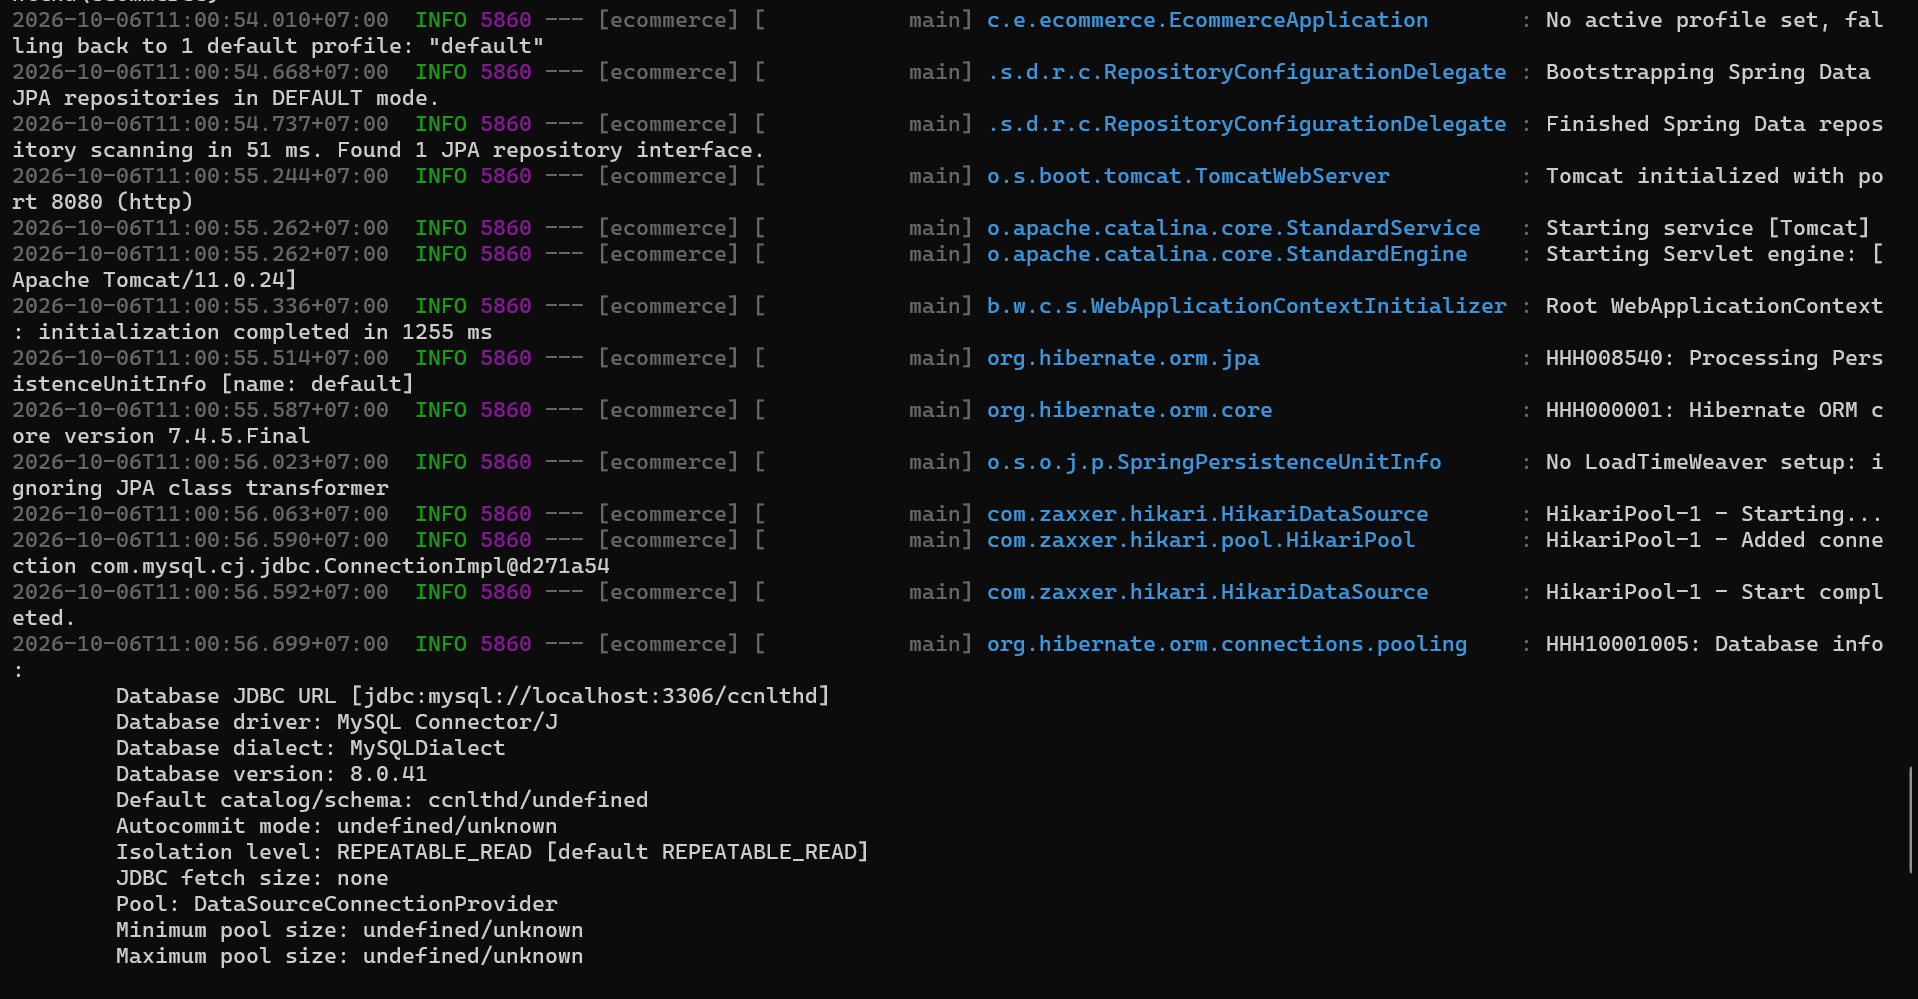
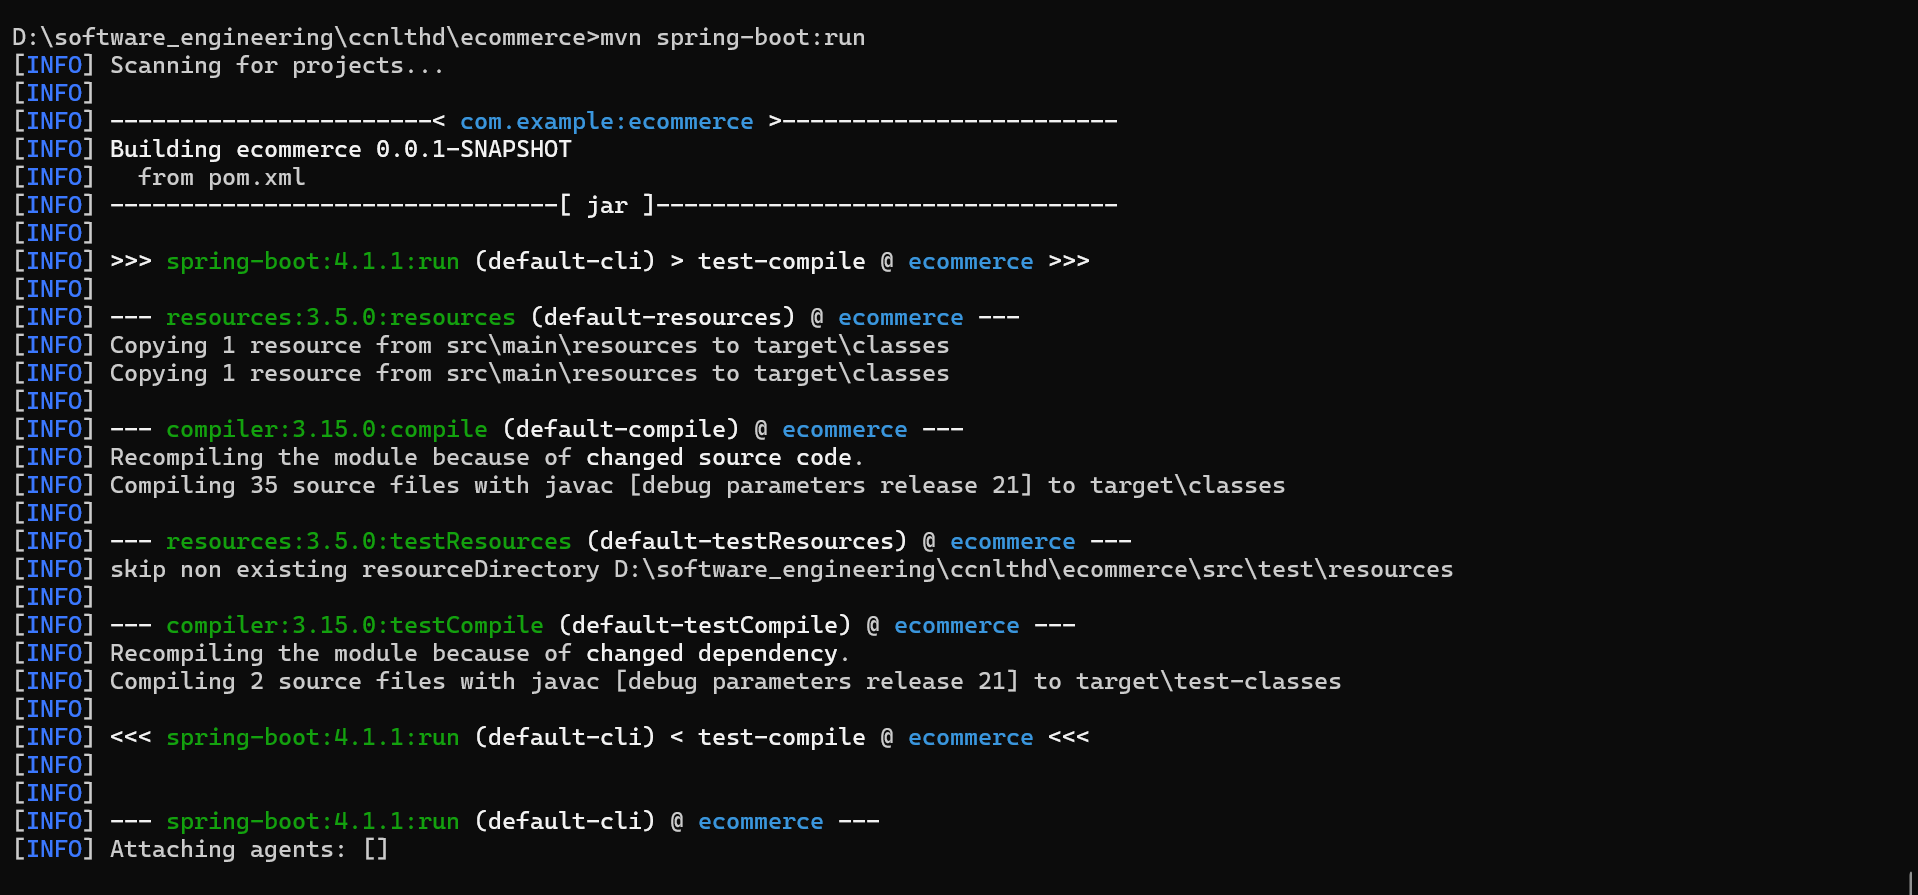
fix: readme

diff --git a/README.md b/README.md
@@ -232,7 +232,12 @@ oKMuxiSDoyo4b7SteigYPWdmpGMmuxb0VvLND3Q3X2A
 
 ![Màn hình Termianl](./imgs/auth/cmd1.png)
 ![](./imgs/auth/cmd2.png)
-![](./imgs/auth/cmd3.png)
+![](./imgs/auth/cmd4.png)
+![](./imgs/auth/cmd5.png)
+![](./imgs/auth/cmd6.png)
+![](./imgs/auth/cmd7.png)
+![](./imgs/auth/cmd8.png)
+![](./imgs/auth/cmd9.png)
 
 
 # 3. Xử Lý Ngoại Lệ Toàn Cục (Global Exception Handling)
